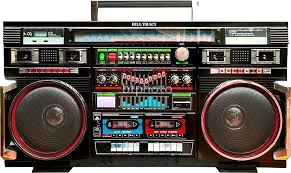
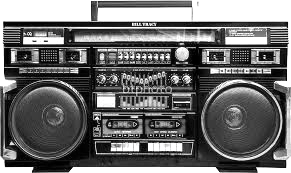
Fixed some of the Credits and changes image to black and white

diff --git a/Server/client/src/components/UserForm.js b/Server/client/src/components/UserForm.js
@@ -211,6 +211,13 @@ class UserForm extends Component {
         backgroundColor: '#007bff',
       };
 
+      var dropBoxTitle = {
+        //textDecorationLine: 'underline', 
+        borderBottom: '2px solid white',
+        fontSize: 20, 
+        color: '#ffffff',
+      };
+
 
 
    if (this.state.submitted === true) {
@@ -253,7 +260,7 @@ class UserForm extends Component {
                   <input {...getInputProps()} name='selectedFile' onChange={this.onFileChange} />
                   <p style={dropboxStyles}>
                   <aside>
-                    <h4 style={{textDecorationLine: 'underline', fontSize: 30, color: '#ffffff',}}>TXT File</h4>
+                    <h4 style={ dropBoxTitle }>Query Identifications</h4>
                     <ul>{files1}</ul>
                   </aside>
                      {!isDragActive && 'Click here or drop a txt file to upload'}
@@ -272,7 +279,7 @@ class UserForm extends Component {
                   <input {...getInputProps()} name='selectedFile2' onChange={this.onFileChange2}/>
                   <p style={dropboxStyles}>
                   <aside>
-                    <h4 style={{textDecorationLine: 'underline', fontSize: 30, color: '#ffffff', }}>FASTA File</h4>
+                    <h4 style={ dropBoxTitle }>Query Database</h4>
                     <ul>{files2}</ul>
                   </aside>
                      {!isDragActive && 'Click here or drop a fasta file to upload'}
@@ -287,7 +294,7 @@ class UserForm extends Component {
       <div>
         <Form>
           <FormGroup as={Col} controlId="formGridState">
-          <FormLabel>Available preloaded FASTA files for query...</FormLabel>
+          <FormLabel>Preloaded query databases...</FormLabel>
              <FormControl as="select" value={this.state.value} onChange={this.handleChange}>
              <option value=''>None</option>
              {this.state.refseqlist.map((v) =>
@@ -298,7 +305,7 @@ class UserForm extends Component {
        </Form>
        <Form>
           <FormGroup as={Col} controlId="formGridState">
-          <FormLabel>Taget...</FormLabel>
+          <FormLabel>Target...</FormLabel>
              <FormControl as="select" value={this.state.value} onChange={this.handleChange}>
              <option value=''>None...</option>
              {this.state.refseqlist.map((v) =>

diff --git a/Server/client/src/components/Credits.js b/Server/client/src/components/Credits.js
@@ -14,13 +14,36 @@ state = {
     var titleStyles = {
         textDecorationLine: 'underline',
         marginTop: '5',
+        textShadow: '-1px 1px #007bff',
       };
 
     return (
       <div className="App">
         <Header />
-        <h1>Credit Page</h1>
+        {/* <h1>Credit Page</h1> */}
         <h5>This project was made possible with the help of...</h5>
+
+        <h3 style={ titleStyles }>Phil Wilmarth, OHSU</h3>
+        <h7>Developed PAW_BLAST. A utility for blasting one protein FASTA file (queries) against another (hits) to find orthologs (reciprocal best matches).</h7>
+        <Nav.Link href="https://github.com/pwilmart/PAW_BLAST">https://github.com/pwilmart/PAW_BLAST</Nav.Link>
+        <Nav.Link href="https://github.com/pwilmart/annotations/blob/master/LICENSE">MIT License</Nav.Link>
+        
+        <h3 style={ titleStyles }>Ben Neely, Ph.D.</h3>
+        <h7>Research Chemist at the National Institute of Standards and Technology</h7>
+
+        <h3 style={ titleStyles }>Paul Anderson, Ph.D.</h3>
+        <h7>Associate Professor, California Polytechnic State University</h7>
+
+        <h3 style={ titleStyles }>Julian Tan</h3>
+        <h7>Computer Science Student. California Polytechnic State University, San Luis Obispo</h7>
+
+        <h3 style={ titleStyles }>Salvador Morales</h3>
+        <h7>Computer Science Student. California Polytechnic State University, San Luis Obispo</h7>
+        
+        <h3 style={ titleStyles }>UniProt</h3>
+        <h7>Written by Kyra Patton, OHSU summer research project, 2016. Adds annotations to proteomics results files.</h7>
+        <h2></h2>
+
         <h3 style={ titleStyles }>BLAST(Basic Local Alignment Search Tool)</h3>
         <h7>BLAST finds regions of similarity between biological sequences. 
             The program compares nucleotide or protein	sequences to sequence databases and calculates the statistical significance.

diff --git a/Server/client/src/components/Instructions.js b/Server/client/src/components/Instructions.js
@@ -20,7 +20,7 @@ state = {
         {description: 'Upload saved text file (“identifications.txt”), that contains the 275 accessions (with header).', key: 0},
         {description: 'Upload a protein FASTA file that corresponds to the text file species. Or pick from the preloaded options.', key: 1},
         {description: 'If you desire human annotaions, then select human from the target menu.', key: 2},
-        {description: 'Then click submit and a csv file will be produced with the desired annotations.', key: 3}
+        {description: 'Then click submit and a csv file will be produced with the desired annotations. Along with the file will be unique URL that can be visited again to access all the files of the query.', key: 3}
       ];
 
     return (

diff --git a/Server/client/src/Main.js b/Server/client/src/Main.js
@@ -24,10 +24,6 @@ class Main extends Component {
                   render={() => <Credits />} />
                   <Route exact path='/components/Instructions'
                   render={() => <Instructions />} />
-                  <Route exact path='https://blast.ncbi.nlm.nih.gov/Blast.cgi'
-                  render={() => 'https://blast.ncbi.nlm.nih.gov/Blast.cgi' } />
-                  <Route exact path='https://www.dropzonejs.com/'
-                  render={() => 'https://www.dropzonejs.com/' } />
                   <Route path='/:fileId'
                   render={() => <FetchFileInfo {...this.props} />} />
                </Switch>
